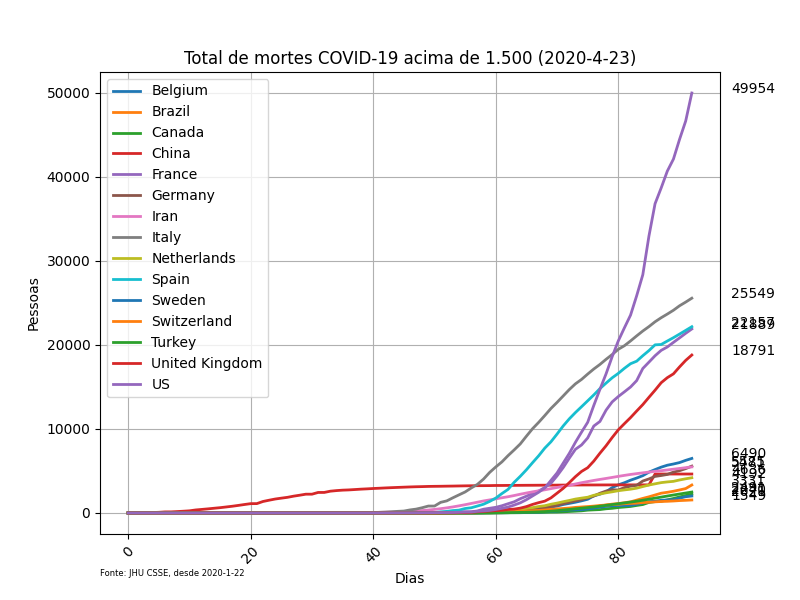
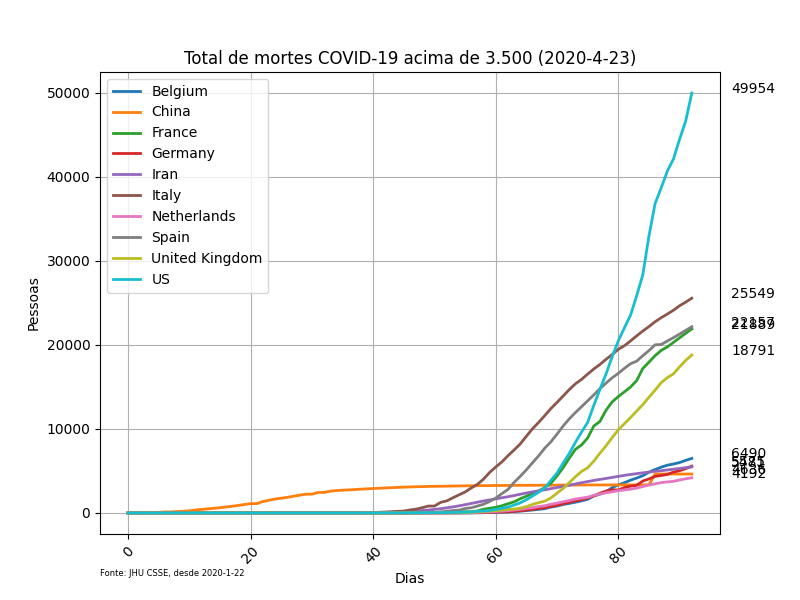
Update $now

diff --git a/coronaplot.py b/coronaplot.py
@@ -71,7 +71,7 @@ def overall_cases(log=False):
 
 	translator = Translator()
 	# Superior limit of cases to plot
-	limit = 1500
+	limit = 3500
 	print ("Generating graph Overall Deaths")
 
 	pyplot.figure(figsize=(8,6),facecolor = 'black', dpi=100)
@@ -111,7 +111,7 @@ def overall_cases(log=False):
 		suffix = "_log"
 	else:
 		suffix = ""
-	pyplot.title('Total de mortes COVID-19 acima de 1.500 ('+lastday+')')
+	pyplot.title('Total de mortes COVID-19 acima de 3.500 ('+lastday+')')
 	pyplot.xlabel('Dias')
 	pyplot.ylabel('Pessoas')
 	pyplot.annotate('Fonte: JHU CSSE, desde '+dayzero, (0,0), (0,-25), fontsize=6, xycoords='axes fraction', textcoords='offset points', va='top')
@@ -122,7 +122,7 @@ def overall_cases(log=False):
 
 
 	# Superior limit of cases to plot
-	limit = 30000
+	limit = 50000
 	print ("Generating graph Overall Confirmed")
 
 	pyplot.figure(figsize=(8,6),facecolor = 'black', dpi=100)
@@ -162,7 +162,7 @@ def overall_cases(log=False):
 		suffix = "_log"
 	else:
 		suffix = ""
-	pyplot.title('Total de confirmados COVID-19 acima de 30.000 ('+lastday+')')
+	pyplot.title('Total de confirmados COVID-19 acima de 50.000 ('+lastday+')')
 	pyplot.xlabel('Dias')
 	pyplot.ylabel('Pessoas')
 	pyplot.annotate('Fonte: JHU CSSE, desde '+dayzero, (0,0), (0,-25), fontsize=6, xycoords='axes fraction', textcoords='offset points', va='top')
